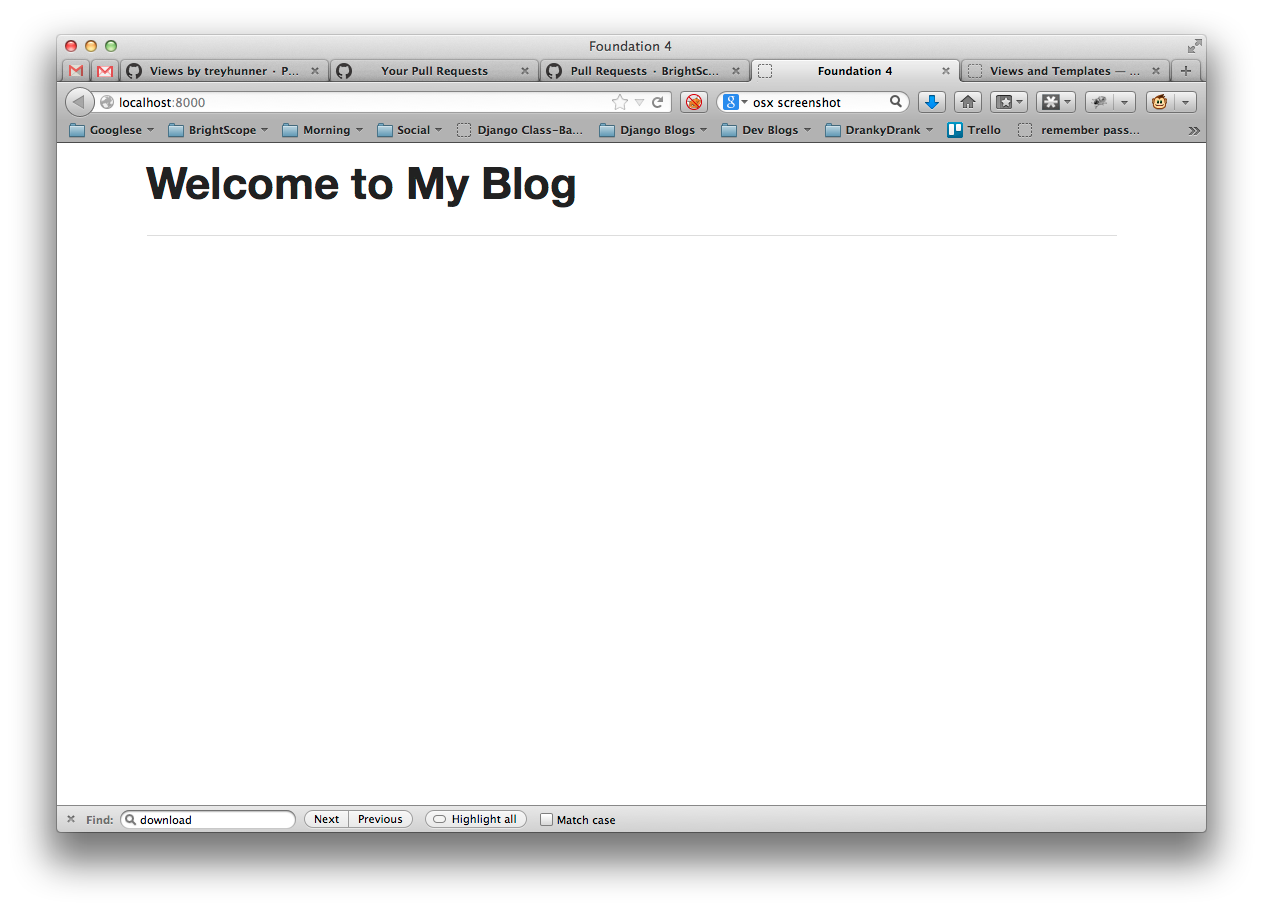
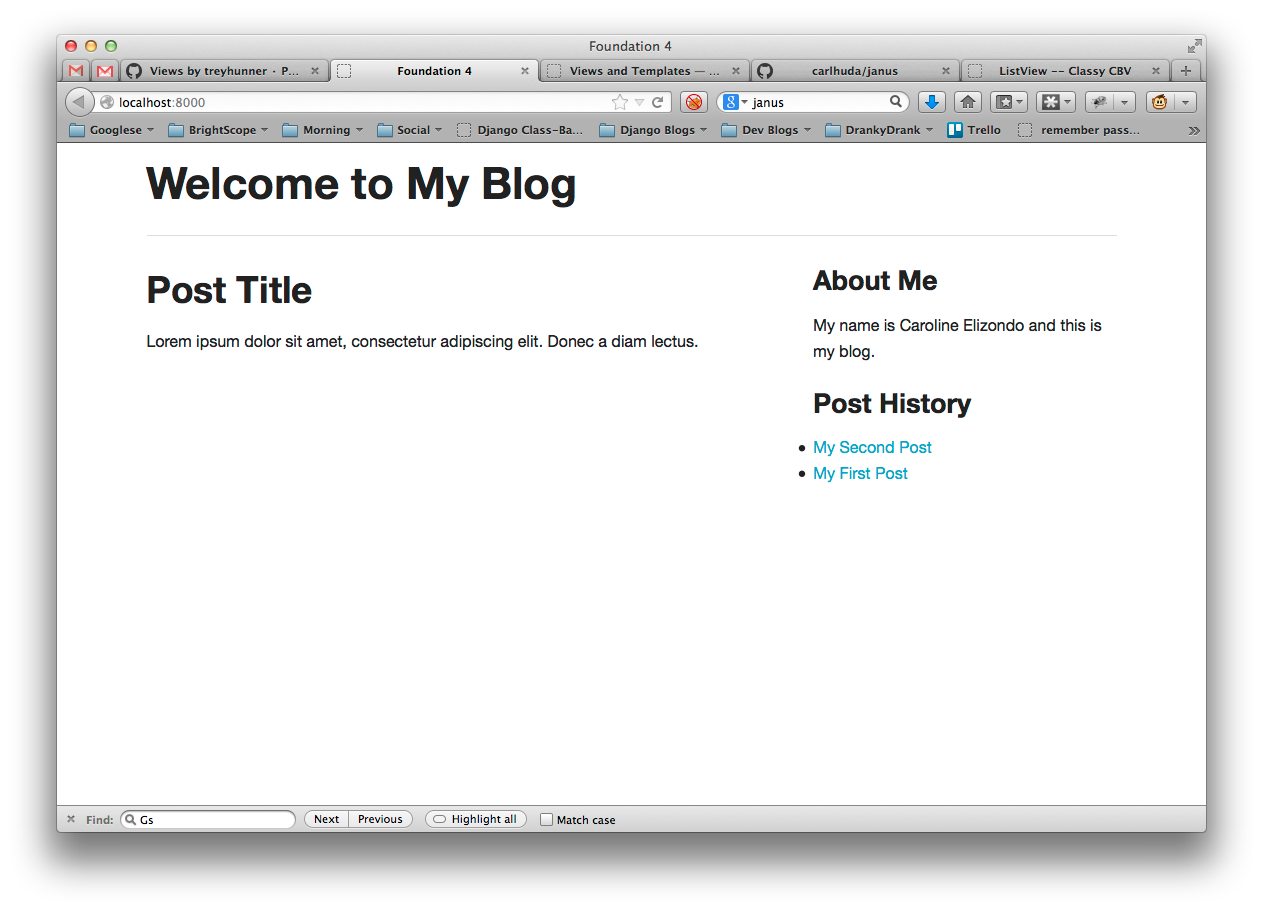
Convert to list views later on

diff --git a/tutorials/03-views.rst b/tutorials/03-views.rst
@@ -139,7 +139,7 @@ Now let's visit http://localhost:8000/ in a web browser to check our work.  You 
 Using a base template
 ~~~~~~~~~~~~~~~~~~~~~
 
-Templates in Django are generally built up from smaller pieces. This lets you include things like a consistent header and footer on all your pages. Convention is to call one of your templates `base.html` and have everything inherit from that.
+Templates in Django are generally built up from smaller pieces. This lets you include things like a consistent header and footer on all your pages. Convention is to call one of your templates ``base.html`` and have everything inherit from that.
 
 base.html:
 
@@ -175,7 +175,7 @@ index.html:
 Adding filler content
 ~~~~~~~~~~~~~~~~~~~~~
 
-Our `base.html` defines some `{% block %}`'s for us. In our `index.html` we only really need to fill in the `content` block. For now please just ignore the `class="large-8 column"` and related stuff. All that does is handle the grid layout from our Zurb Foundation CSS.
+Our ``base.html`` defines some ``{% block %}``'s for us. In our ``index.html`` we only really need to fill in the ``content`` block. For now please just ignore the ``class="large-8 column"`` and related stuff. All that does is handle the grid layout from our Zurb Foundation CSS.
 
 
 .. code-block:: html
@@ -214,5 +214,105 @@ Our `base.html` defines some `{% block %}`'s for us. In our `index.html` we only
     {% endblock content %}
 
 
+ListViews
+---------
+
+In our filler view, we just put some hard coded posts in there. Ideally this should come from our DB, so let's get that under test first.
+
+
+A simple test for "does this show up on the page" is just to use the TestClient to get a page and then check the response text. So in our ``blog/test.py`` file let's add
+
+.. code-block:: python
+
+    from django.contrib import auth
+
+    class ListPostsOnHomePage(TestCase):
+        def setUp(self):
+            self.user = auth.get_user_model().objects.create(username='some_user')
+
+        def test_one_post(self):
+            Post.objects.create(title='1-title', body='1-body', author=self.user)
+            response = self.client.get('/')
+            self.assertContains(response, '1-title')
+            self.assertContains(response, '1-body')
+
+        def test_two_posts(self):
+            Post.objects.create(title='1-title', body='1-body', author=self.user)
+            Post.objects.create(title='2-title', body='2-body', author=self.user)
+            response = self.client.get('/')
+            self.assertContains(response, '1-title')
+            self.assertContains(response, '1-body')
+            self.assertContains(response, '2-title')
+
+which should fail like this
+
+.. code-block:: bash
+
+    Creating test database for alias 'default'...
+    FF..
+    ======================================================================
+    FAIL: test_one_post (blog.tests.ListPostsOnHomePage)
+    ----------------------------------------------------------------------
+    Traceback (most recent call last):
+      File "/Users/paulcollins/personal/myblog/blog/tests.py", line 25, in test_one_post
+        self.assertContains(response, '1-title')
+      File "/opt/boxen/data/virturalenvs/sdpug_tdd_django/lib/python2.7/site-packages/django/test/testcases.py", line 664, in assertContains
+        msg_prefix + "Couldn't find %s in response" % text_repr)
+    AssertionError: Couldn't find '1-title' in response
+
+    ======================================================================
+    FAIL: test_two_posts (blog.tests.ListPostsOnHomePage)
+    ----------------------------------------------------------------------
+    Traceback (most recent call last):
+      File "/Users/paulcollins/personal/myblog/blog/tests.py", line 32, in test_two_posts
+        self.assertContains(response, '1-title')
+      File "/opt/boxen/data/virturalenvs/sdpug_tdd_django/lib/python2.7/site-packages/django/test/testcases.py", line 664, in assertContains
+        msg_prefix + "Couldn't find %s in response" % text_repr)
+    AssertionError: Couldn't find '1-title' in response
+
+    ----------------------------------------------------------------------
+    Ran 4 tests in 0.201s
+
+    FAILED (failures=2)
+    Destroying test database for alias 'default'...
+
+
+Updating our views
+~~~~~~~~~~~~~~~~~~
+
+One easy way to get all our posts objects to list is to just use a ``ListView``. That changes our ``HomeView`` only slightly.
+
+.. code-block:: python
+
+    from django.views.generic import ListView
+
+    from blog import models
+
+
+    class HomeView(ListView):
+        template_name = 'index.html'
+        queryset = models.Post.objects.order_by('-created_at')
+
+    home = HomeView.as_view()
+
+That small change will provide a ``post_list`` object to our template ``index.html`` which we can then loop over. For some quick documentation on all the Class Based Views in django, take a look at `Classy Class Based Views`_
+
+The last change needed then is just to update our ``index.html`` to actually put those blog posts in there.
+
+.. code-block:: html
+
+    <div class="large-8 columns">
+        {% for post in post_list %}
+        <h2>{{ post.title }}</h2>
+        <article>
+          {{ post.body }}
+        </article>
+        {% endfor %}
+    </div>
+
+
+And now, if we add some posts in our admin, they should show up on the homepage.
+
 .. _zurb foundation files: http://foundation.zurb.com/
 .. _direct link: http://foundation.zurb.com/files/foundation-4.3.2.zip
+.. _Classy Class Based Views: http://ccbv.co.uk
